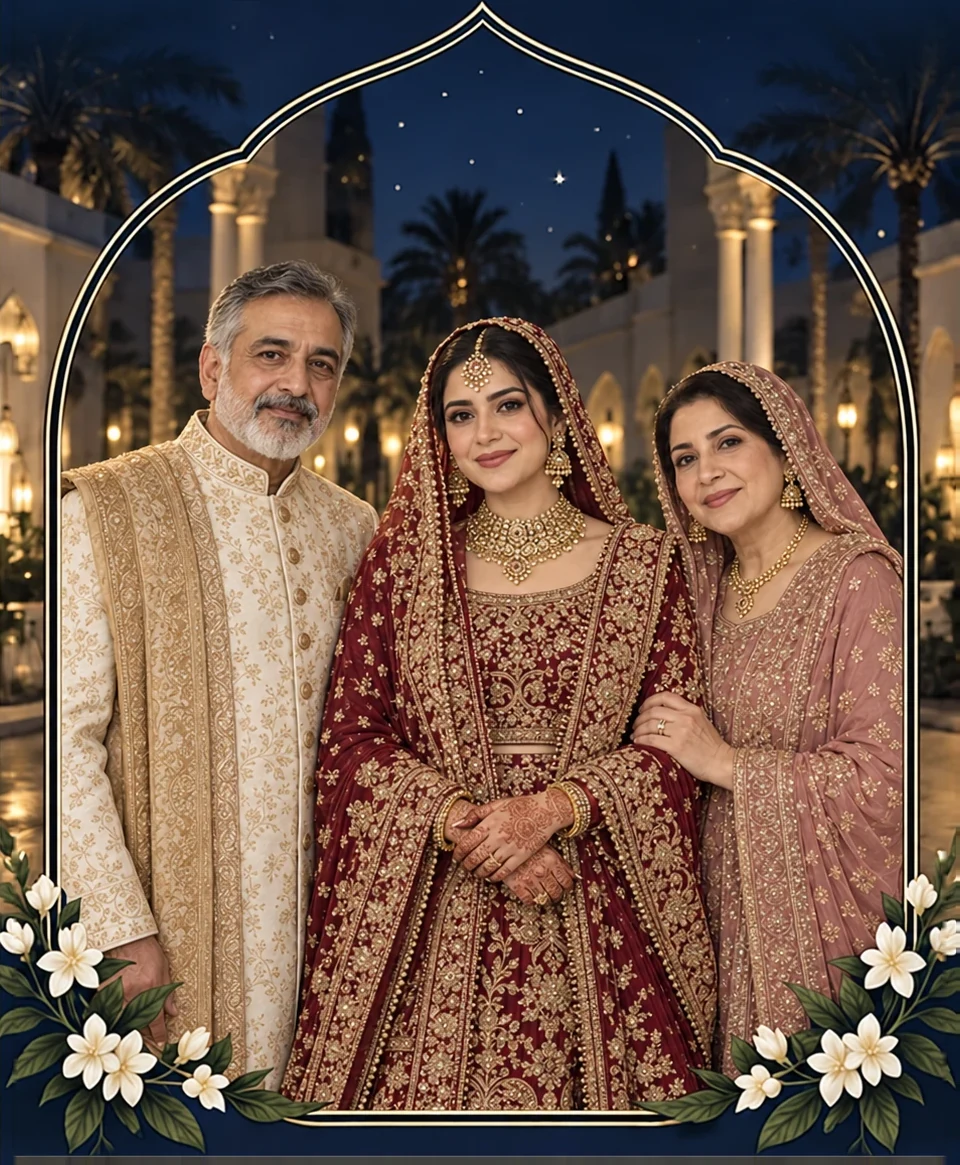
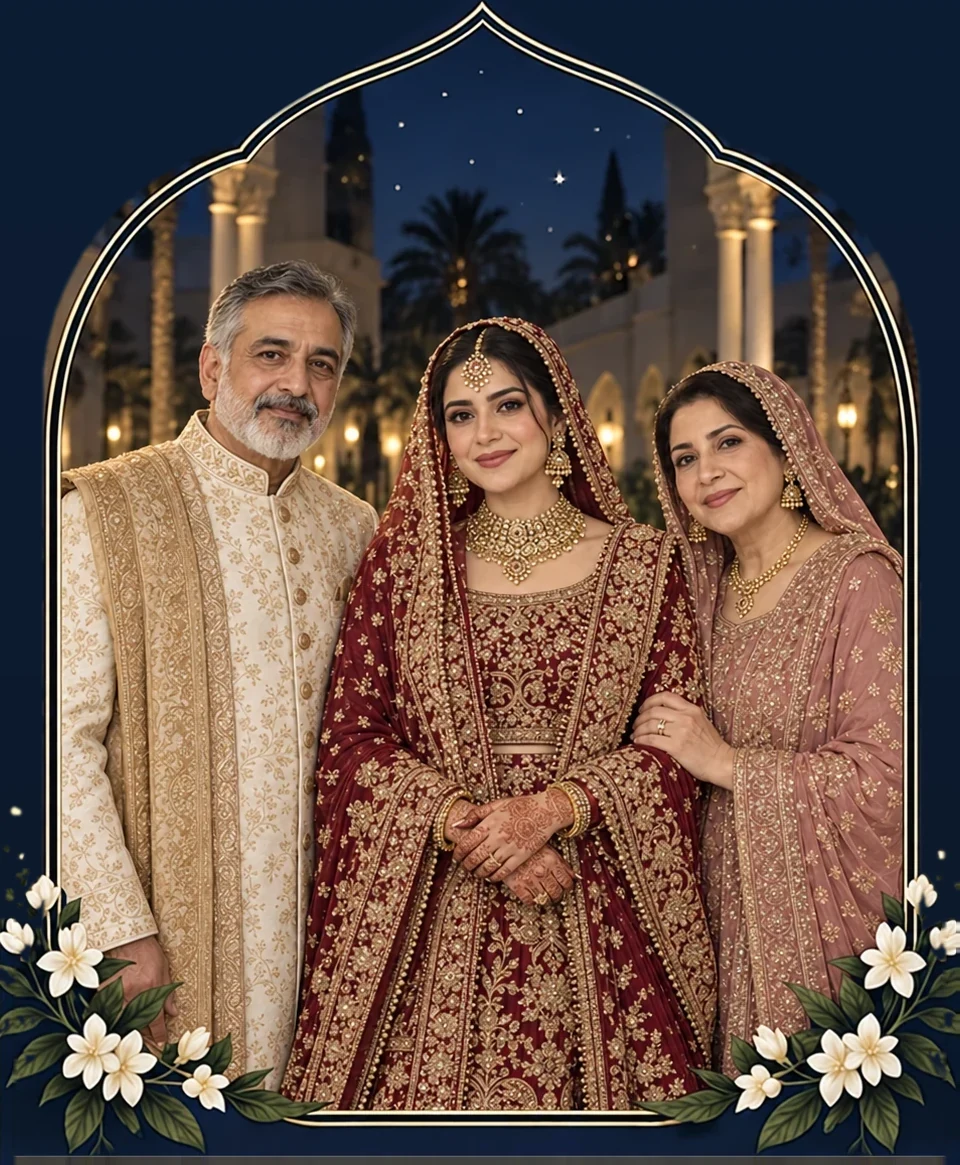
Soft blended joins between sections; family photos kept inside the gold arch

diff --git a/index.html b/index.html
@@ -849,6 +849,15 @@ html[lang="ur"] .ty-top{font-family:var(--f-ur-body)}html[lang="hi"] .ty-top{fon
 html.rm .ty-sec .ty-step,html.rm .ty-sec .ty-nm,html.rm .ty-sec .ty-word{transition:none!important}
 html.rm .ty-pend,html.rm .ty-pend::after{animation:none!important}
 
+/* ---------- soft "smudged" joins where two sections meet without a wave: a colour mist from one into the next,
+   with a light blur right on the join (Welcome > Reveal Date, Families > Celebrations, Need help? > Thank you) ---------- */
+.sx{position:relative;z-index:6;height:0;pointer-events:none}
+.sx::before,.sx::after{content:"";position:absolute;inset-inline:0}
+.sx::after{top:calc(var(--up) * -1);height:calc(var(--up) + var(--dn));
+  background:linear-gradient(180deg,transparent 0,var(--a) var(--pa),var(--m,color-mix(in oklab,var(--a),var(--b))) calc((var(--pa) + var(--pb)) / 2),var(--b) var(--pb),transparent 100%)}
+.sx::before{top:calc(var(--bl) * -1);height:calc(var(--bl) * 2);-webkit-backdrop-filter:blur(9px);backdrop-filter:blur(9px);
+  -webkit-mask:linear-gradient(180deg,transparent,#000 40%,#000 60%,transparent);mask:linear-gradient(180deg,transparent,#000 40%,#000 60%,transparent)}
+
 /* info cards (travel / dress / contact) */
 .cards{display:grid;gap:14px;width:100%}
 @media (min-width:700px){.cards{grid-template-columns:1fr 1fr}}
@@ -1044,7 +1053,7 @@ html.inframe::-webkit-scrollbar{display:none}
 
 /* ---------- welcome + reveal date: Agrim's Figma "Group 240" (440 px wide artboard; 1 design px = --u) ---------- */
 #welcome.g240,#countdown.g240{padding:0;background:#0C1530;overflow:hidden}
-#countdown.g240{background:#F7E4E8}
+#countdown.g240{padding-top:46px;background:linear-gradient(#FEF7F9,#FEF7F9) top/100% 46px no-repeat,#F7E4E8}   /* room for the soft join from the welcome */
 .g-frame{position:relative;width:100%;max-width:560px;margin-inline:auto;container-type:inline-size}
 .g-frame > *{--u:calc(100cqw / 440)}
 .g-wrap{--scene:url("assets/welcome/arch.webp")}
@@ -1365,6 +1374,7 @@ html[lang="hi"] .eyebrow,html[lang="hi"] .btn,html[lang="hi"] .badge,html[lang="
   </section>
 
   <!-- 3 Reveal date + countdown (Group 240, pink half) -->
+  <div class="sx" aria-hidden="true" style="--a:#866061;--b:#FEF7F9;--up:34px;--dn:84px;--pa:12px;--pb:78px;--bl:22px"></div>
   <section id="countdown" class="g240" aria-labelledby="cdTitle">
     <div class="g-frame g-pink" id="gPink">
       <img class="g-wreaths" src="assets/welcome/wreaths.webp" alt="" aria-hidden="true">
@@ -1426,6 +1436,7 @@ html[lang="hi"] .eyebrow,html[lang="hi"] .btn,html[lang="hi"] .badge,html[lang="
   </section>
 
   <!-- 5 Events: Agrim's template (photo + gold board, alternating, on moonlit navy); clouds part to reveal each one -->
+  <div class="sx" aria-hidden="true" style="--a:#E8EFFA;--m:#7E92C2;--b:#1B2643;--up:96px;--dn:40px;--pa:30px;--pb:118px;--bl:26px"></div>
   <section id="events" class="ev-sec" aria-labelledby="eventsTitle">
     <div class="edge top navy"><svg><use href="#i-edge"/></svg></div>
     <div class="ev-hang" aria-hidden="true">
@@ -1859,6 +1870,7 @@ html[lang="hi"] .eyebrow,html[lang="hi"] .btn,html[lang="hi"] .badge,html[lang="
   </section>
 
   <!-- 13 Thanks -->
+  <div class="sx" aria-hidden="true" style="--a:#101A33;--m:#B9A5CD;--b:#FBF4F1;--up:86px;--dn:64px;--pa:24px;--pb:120px;--bl:26px"></div>
   <section id="thanks" class="ty-sec run" aria-labelledby="thanksTitle">
     <div class="edge top ty-edge"><svg><use href="#i-edge"/></svg></div>
     <div class="ty-bg" aria-hidden="true">

diff --git a/README.md b/README.md
@@ -24,7 +24,7 @@ python3 -m http.server 8000
 - RSVP and wishes run in preview mode and save only on the guest's device. The Google Sheet and Apps Script backend is the next step (`ENDPOINT` in the script).
 - Opening: Agrim's navy envelope with the gold wax seal (`assets/opening/`), real gold butterflies and a medium white lily-and-rose bouquet along the bottom that blooms as the screen appears (`assets/opening/bq-*.webp`: the greenery base plus each rose, lily and hydrangea as its own piece; roses open from a bud through a half-open rose, lilies unfold their petals, hydrangeas swell; replaying the opening blooms it again). Tapping the seal folds the flap back, the invitation card (an ivory lace card, `assets/opening/lace-card.webp`, with the names on its linen centre) rises, butterflies fly out, and the page fades into the welcome screen. The seal shows the letter "L" from the reference photo; swap `assets/opening/seal.webp` for an "A & O" seal if wanted.
 - Welcome and countdown follow Agrim's Figma "Group 240" (`assets/welcome/`): a carved flower arch framing a palace at dusk (`arch.webp`, with the moon moved up under the arch's point; `arch-floor.webp` is a soft reflection that fills taller screens), with the hanging lanterns kept. The Urdu Bismillah starts inside the arch's sky, then "Dear Guest", the names and the walima invitation write themselves in while the two flower garlands sway in the breeze, gold glitter falls, and small butterflies flit between the flowers (garlands, rose-covered pillars and the flower beds), resting on them now and then. The client's couple photo stands in the bottom-right corner beside the glass "Tap here" button, and the bride's lehenga sways. "Tap here" opens the rest of the invitation at the Reveal Date card (light blush pink melting into champagne gold, a small glowing "Reveal Date" heading): guests scratch the three softly beating, gold-glowing hearts (or tap Reveal Date) to uncover 15 November 2026, with confetti, followed by the live countdown in gold wreaths.
-- Meet Our Families follows Agrim's reference: one moonlit card that alternates between the groom's family and the bride's with a slice slider (the photo splits into vertical strips that slide up and down in a staggered wave to reveal the other family, after the reference video; it moves on every few seconds while on screen, and the dots or a swipe change it). Each family's photo sits in a gold Islamic arch with jasmine. As each card scrolls into view its gold arch lights up from both sides to the tip, then keeps a soft glow with sparks of light rising up the frame, and the card's border glows. The photos in `assets/families/` are the client's sample families (the arch and flowers are part of each image; the glow traces that arch), with sample parents' names (Mr. Abdullah & Mrs. Khadija Sheikh; Mr. Yusuf & Mrs. Fatima Al Hashimi) to replace with the real ones.
+- Meet Our Families follows Agrim's reference: one moonlit card that alternates between the groom's family and the bride's with a slice slider (the photo splits into vertical strips that slide up and down in a staggered wave to reveal the other family, after the reference video; it moves on every few seconds while on screen, and the dots or a swipe change it). Each family's photo sits in a gold Islamic arch with jasmine; everything outside the arch (sky, palms, palace and floor glow) is filled with the card's navy, so only the jasmine reaches past the frame. As each card scrolls into view its gold arch lights up from both sides to the tip, then keeps a soft glow with sparks of light rising up the frame, and the card's border glows. The photos in `assets/families/` are the client's sample families (the arch and flowers are part of each image; the glow traces that arch), with sample parents' names (Mr. Abdullah & Mrs. Khadija Sheikh; Mr. Yusuf & Mrs. Fatima Al Hashimi) to replace with the real ones.
 - Wedding Celebrations follow Agrim's template: a moonlit navy section with hanging brass lanterns, and for each of Haldi, Mehendi, Nikah, Walima and Reception a photo (`assets/events/`, from Agrim's reference; Reception is the welcome couple in front of the invitation's own lantern-lit hall) beside a champagne-gold board with the date, time, venue, a short line and a glowing "View location" button that opens Google Maps, alternating sides, with gold dividers between them. Each celebration starts hidden behind two pastel clouds (`cloud-1..3.webp`, drawn for this site) that part to the edges as you scroll to it, following the reference video; scrolling back up closes them. With reduced motion there are no clouds. The schedule is a sample to confirm (only Walima's 15 November, 6:30 PM at Jumeirah Al Qasr comes from the original brief).
 - Moments gallery: seven couple photos (`assets/gallery/`) on a scroll-driven orbit, after Agrim's Framer reference: the stage pins under the top bar, and scrolling turns the orbit so each photo comes to the front in turn (scrolling up turns it back), and a gold flower frame below (`assets/gallery/story-frame.webp`, marble background removed) pops up with that photo's chapter of their story (met, friends, best friends, falling in love, love in bloom, engaged, forever begins; the years are samples to confirm); tapping a photo opens it full size with its chapter. With reduced motion it is a plain two-column gallery. The photos are samples; some carry their sources' watermarks, so swap in the couple's own photos before launch.
 - Venue: a palace photo in the gold arch (`assets/venue/`, a sample image to replace with the real venue), with a few small fireworks bursting in its sky, left and right, as it scrolls into view (and now and then while it stays on screen). The Get Directions button warms from gold to a gold-and-blush glow on hover (or tap), and Copy Address fills with light blue.
@@ -33,6 +33,7 @@ python3 -m http.server 8000
 - Kindly Reply (RSVP), after Agrim's references: the moonlit mosque with its minarets and green dome (`assets/rsvp/scene.webp`, the reference's gold frame and corner flowers removed) fades softly into the blue behind the "Kindly Reply" heading, then a cream board with gold borders (`assets/rsvp/board.webp`) asks "Will you join us on our dream day?". Below it is a glassy "Lovingly accept & RSVP" button with a gold moon and star (in place of the reference's pearl), which glows and shimmers. Accepting makes white rose sprays open around the board's corners (bud, half-open, full bloom; `assets/rsvp/f-*.webp` are single roses cut cleanly from the bouquet flowers), then the board and button give way to an "Invitation Accepted" card in the section itself (not a pop-up): the couple's photo, a gold wax seal, "With all our love, Ayisha & Omar", roses on two corners, and two links, Change response (clears the reply and brings the board and button back) and Full RSVP details (the name, guests, celebrations, dietary needs and note form, in a pop-up). The card stays on every later visit, so the guest is not asked to accept again. "Regretfully unable to attend?" opens the form set to not attending. With reduced motion the roses are simply open and the card appears at once.
 - Wishes for the Couple: a chat-style wishing wall (after Agrim's chat video). Guests' photos cluster at the top, then the latest four wishes arrive one by one as the wall scrolls into view, each sender's photo appearing with a "typing" bubble before their wish slides in under their name and relation, in a gold pill frame with a white flower spray (`assets/flowers/chat-spray.webp`, from Agrim's frame). Four sample guests have photos (`assets/wishes/`, cropped from the site's own photos as placeholders); two keep their pink initials, as photos are optional. View all wishes opens every wish in a pop-up inside the phone screen. Guests leave a wish with their name, relation (optional), message and photo (optional); on Send, party crackers burst and the wish flies up into the chat. Six sample wishes are shown until the live guest book is connected.
 - Need help? (on the same navy): a glowing "Contact Us" illustration drawn for the site after Agrim's reference (a support agent with a gold headset in a glowing ring, with glowing mail, chat, phone and location bubbles joined by moving dotted lines) above a dark glass plate with gold rim that reads "Contact Us" in silver and gold. Below it, a heart timeline after Agrim's reference: as you scroll, a glowing pink heart travels down the gold line and lights up, in turn, the Bride's Father (left), the Groom's Father (right) and the Event Coordinator (left), each with a photo in a glowing gold ring and a "Tap here" button that shows their mobile and WhatsApp numbers (tap to call or open WhatsApp). The numbers (+971 50 000 0001 to 0003) are samples to replace. Photos in `assets/contact/`: the bride's father is from the bride's family photo; the groom's father and the coordinator are free Unsplash photos (saad ali, Nathan Mullet), to swap for the real people.
+- Soft joins: where two sections meet without a wave (Welcome > Reveal Date, Families > Wedding Celebrations, Need help? > Thank you) a colour mist blends one into the next, with a light blur on the join (`.sx`).
 - Section dividers: a small gold floral vine (`assets/ornament/vine.webp`, from Agrim's border, cut from its cream paper and turned on its side) closes every section from Reveal Date to Need help?, opening from the centre as it scrolls into view.
 - Thank you (the last section): a blush-white "infinite grid" background after Agrim's Framer video, with drifting blue, pink and peach glows; the grid lights up around the mouse (on phones the glow drifts by itself). When the heading is fully on screen, a handwritten gold "Thank You" writes itself like a real pen (slower round the curves, quicker on the straights, short lifts between strokes and a longer pause between the words) with a glowing pen tip, ending in a long underline swash (traced for this site from the open-licence Sacramento script, not copied from the reference image; Urdu and Hindi write شکریہ / शुक्रिया in from the reading side). Then each part appears in turn as it is scrolled to (scrolling back up above the section resets it so it plays again): the couple's thank-you note, Agrim's double-heart gold locket with its bow (`assets/thanks/hearts.webp`, cut out from the reference picture; it sways gently on its bow with a slow light gliding over it) holding Ayisha and Omar's names, Save the Date 15 · 11 · 2026, the couple walking together (`assets/thanks/couple.webp`, Agrim's illustration cut out), and a Return to top button. The moon and the old text are gone. The preview note and test buttons (replay opening, failed-save test, clear my RSVP) are now hidden; add `?test=1` to the address to show them.
 - Travel & Stay (just before Need help?) follows Agrim's "features tab accordion" video: a photo on top (pinned under the top bar as the list scrolls) and seven numbered rows. Hovering a row with a mouse, or tapping it, opens it and the photo changes to match: Arriving by air (DXB, about 27 km and 30–35 minutes; DWC; visas), Metro & bus (Mall of the Emirates on the Red Line, bus 81), Taxis & rides, Where to stay (Jumeirah Beach Hotel suggested), The palace venue (Jumeirah Al Qasr), Desert safari and Global Village. Each opens to a short note, two key facts and a location button that opens Google Maps (the taxi row opens a driving route to the palace). Photos in `assets/travel/` are free Unsplash photos (Alireza Akhlaghi, Damir Babacic, Claude Nai, Nick Fewings, Sergey Pesterev, yasara hansani); the venue uses the venue photo. Times and routes are checked as of October 2026; the suggested hotel is to confirm with the family. Contact details are labelled placeholders. Urdu and Hindi wording needs review by fluent readers.
